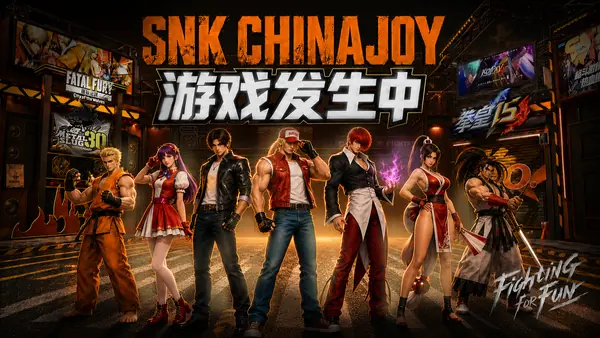
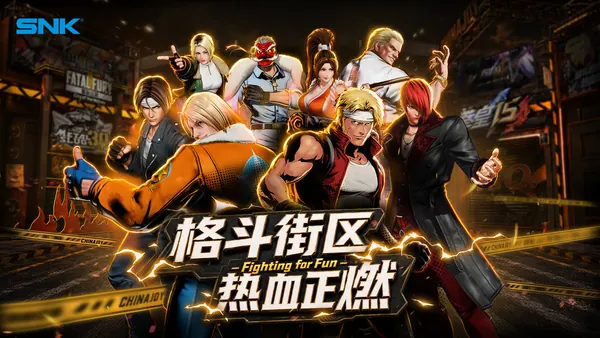
feat: blue name, red discipline links that open the matching work tab

diff --git a/src/app/page.tsx b/src/app/page.tsx
@@ -17,6 +17,17 @@ const POLAROID_INNER = {
   height: "65%",
 };
 
+// the four disciplines on the left page double as entry points into the
+// matching tab of the work index
+const DISCIPLINES = [
+  { zh: "动画", en: "Animation", tab: "animation" },
+  { zh: "设计", en: "Design", tab: "design" },
+  { zh: "视频", en: "Video", tab: "video" },
+  { zh: "AIGC", en: "", tab: "aigc" },
+];
+
+const worksHref = (tab: string) => `/works?tab=${tab}`;
+
 export default function Home() {
   return (
     <div className="grid-bg relative min-h-screen w-full overflow-hidden md:flex md:items-start md:justify-center md:px-4 md:pt-24 md:pb-8">
@@ -30,7 +41,7 @@ export default function Home() {
           <p className="hand type font-bold text-marker leading-[0.9] text-[64px]">
             Hi<span className="text-[22px] align-super">～</span>
           </p>
-          <h1 className="hand type font-bold text-marker text-[22px] mt-3 leading-[1.3]">
+          <h1 className="hand type font-bold text-ink-blue text-[22px] mt-3 leading-[1.3]">
             I&apos;m{" "}
             <span className="tracking-[0.12em] inline-flex">
               <span className="inline-block -rotate-3">蔡</span>
@@ -40,18 +51,17 @@ export default function Home() {
           </h1>
 
           <div className="mt-6 grid grid-cols-2 gap-y-2 gap-x-3">
-            {[
-              ["动画", "Animation"],
-              ["设计", "Design"],
-              ["视频", "Video"],
-              ["AIGC", ""],
-            ].map(([zh, en], i) => (
-              <div key={zh} className="flex items-baseline gap-1.5">
-                <span className={`hand font-bold text-ink-blue text-[17px] leading-[1.4]${i === 3 ? " zh" : ""}`}>
-                  {zh}
+            {DISCIPLINES.map((d) => (
+              <Link
+                key={d.zh}
+                href={worksHref(d.tab)}
+                className="flex items-baseline gap-1.5 transition-opacity hover:opacity-70"
+              >
+                <span className={`hand font-bold text-marker text-[17px] leading-[1.4]${d.zh === "AIGC" ? " zh" : ""}`}>
+                  {d.zh}
                 </span>
-                {en && <span className="note type text-[#2b2b2b] text-[12px] leading-[1.4]">{en}</span>}
-              </div>
+                {d.en && <span className="note type text-[#2b2b2b] text-[12px] leading-[1.4]">{d.en}</span>}
+              </Link>
             ))}
           </div>
 
@@ -180,7 +190,7 @@ export default function Home() {
             Hi<span className="text-[0.3em] align-middle -mt-2 inline-block">～</span>
           </p>
           <h1
-            className="hand type font-bold text-marker leading-[1.2]"
+            className="hand type font-bold text-ink-blue leading-[1.2]"
             style={{ fontSize: px(0.033), marginTop: px(0.003), marginLeft: px(0.006) }}
           >
             I&apos;m{" "}
@@ -191,7 +201,8 @@ export default function Home() {
             </span>
           </h1>
 
-          {/* four directions, two columns: animation+design left, AIGC+video right */}
+          {/* four directions, two columns: animation+design left, AIGC+video right.
+              each word is also the way into its tab on the work index */}
           <div
             style={{
               marginTop: px(0.0235),
@@ -202,9 +213,13 @@ export default function Home() {
               alignItems: "baseline",
             }}
           >
-            <div className="flex items-baseline -rotate-2" style={{ columnGap: px(0.0088) }}>
+            <Link
+              href={worksHref("animation")}
+              className="flex items-baseline -rotate-2 transition-opacity hover:opacity-70"
+              style={{ columnGap: px(0.0088) }}
+            >
               <span
-                className="hand font-bold text-ink-blue leading-[1.5]"
+                className="hand font-bold text-marker leading-[1.5]"
                 style={{ fontSize: px(0.0264) }}
               >
                 动画
@@ -215,21 +230,26 @@ export default function Home() {
               >
                 Animation
               </span>
-            </div>
-            <div className="flex items-baseline" style={{ columnGap: px(0.0088) }}>
+            </Link>
+            <Link
+              href={worksHref("aigc")}
+              className="flex items-baseline transition-opacity hover:opacity-70"
+              style={{ columnGap: px(0.0088) }}
+            >
               <span
-                className="hand zh font-bold text-ink-blue leading-[1.4] -rotate-6"
+                className="hand zh font-bold text-marker leading-[1.4] -rotate-6"
                 style={{ fontSize: px(0.022) }}
               >
                 AIGC
               </span>
-            </div>
-            <div
-              className="flex items-baseline rotate-1"
+            </Link>
+            <Link
+              href={worksHref("design")}
+              className="flex items-baseline rotate-1 transition-opacity hover:opacity-70"
               style={{ columnGap: px(0.0088), marginLeft: px(0.014), marginTop: px(0.004) }}
             >
               <span
-                className="hand font-bold text-ink-blue leading-[1.5]"
+                className="hand font-bold text-marker leading-[1.5]"
                 style={{ fontSize: px(0.0264) }}
               >
                 设计
@@ -240,13 +260,14 @@ export default function Home() {
               >
                 Design
               </span>
-            </div>
-            <div
-              className="flex items-baseline rotate-1"
+            </Link>
+            <Link
+              href={worksHref("video")}
+              className="flex items-baseline rotate-1 transition-opacity hover:opacity-70"
               style={{ columnGap: px(0.0088), marginLeft: px(0.006), marginTop: px(0.004) }}
             >
               <span
-                className="hand font-bold text-ink-blue leading-[1.5]"
+                className="hand font-bold text-marker leading-[1.5]"
                 style={{ fontSize: px(0.0264) }}
               >
                 视频
@@ -257,7 +278,7 @@ export default function Home() {
               >
                 Video
               </span>
-            </div>
+            </Link>
           </div>
         </div>
 

diff --git a/src/data/designs.ts b/src/data/designs.ts
@@ -211,19 +211,30 @@ export const designs: Record<string, DesignData> = {
   snk: {
     slug: "snk",
     title: "SNK",
-    sub: "ChinaJoy 主视觉",
+    sub: "ChinaJoy 展台视觉",
     en: "KEY VISUAL · CHINAJOY",
     group: "游戏项目",
     credit: "全部物料独立设计 / 制作",
-    desc: "SNK 在 ChinaJoy 的主 K 方向。KOF 群像站在夜色街头，字标压在画面上沿，整张图只做一件事：让人一眼认出来。",
-    meta: ["主 KV 方向稿"],
+    desc: "SNK 在 ChinaJoy 2026 的展台视觉，走了两版方向：夜色街区的「格斗街区 · 热血正燃」，和橙色底的热血开战版。定稿再落到一张竖版参展确认海报，展位号与展期压在左下。",
+    meta: ["KV 两版方向", "参展确认海报 · 竖版"],
     cover: "/design/snk/snk-01.webp",
     thumb: "/design/snk/snk-01-600.webp",
     logo: "/design/snk/logo.webp",
     logoPlate: "ink",
     logoBg: "/design/snk/logo-bg.webp",
     logoTone: "#2b2724",
-    plates: [{ label: "ChinaJoy 主 KV", shots: ["/design/snk/snk-01.webp"] }],
+    plates: [
+      {
+        label: "KV · 两版方向",
+        shots: ["/design/snk/snk-01.webp", "/design/snk/snk-02.webp"],
+        cols: 2,
+      },
+      {
+        label: "参展确认 · 竖版海报",
+        shots: ["/design/snk/snk-03.webp"],
+        cols: 2,
+      },
+    ],
   },
   ro3: {
     slug: "ro3",

diff --git a/src/app/works/page.tsx b/src/app/works/page.tsx
@@ -1,7 +1,7 @@
 "use client";
 
 import Link from "next/link";
-import { useEffect, useRef, useState } from "react";
+import { useLayoutEffect, useEffect, useRef, useState } from "react";
 import { useRouter } from "next/navigation";
 import { aigcOrder, animationOrder, videoOrder, works } from "@/data/works";
 import { designOrder, designs } from "@/data/designs";
@@ -454,6 +454,16 @@ export default function WorksPage() {
   const [active, setActive] = useState(0);
   const current = sections[active];
   const router = useRouter();
+
+  // the home page's four disciplines open the matching tab via ?tab=video etc.
+  // the index is static, so read the query on mount; a layout effect keeps it
+  // ahead of the first paint so the viewer never sees the default tab flash
+  useLayoutEffect(() => {
+    const tab = new URLSearchParams(window.location.search).get("tab");
+    if (!tab) return;
+    const idx = sections.findIndex((s) => s.key === tab);
+    if (idx >= 0) setActive(idx);
+  }, []);
 
   // leaving the notebook: the room goes dark, then the TV lights up
   const [leaving, setLeaving] = useState(false);
